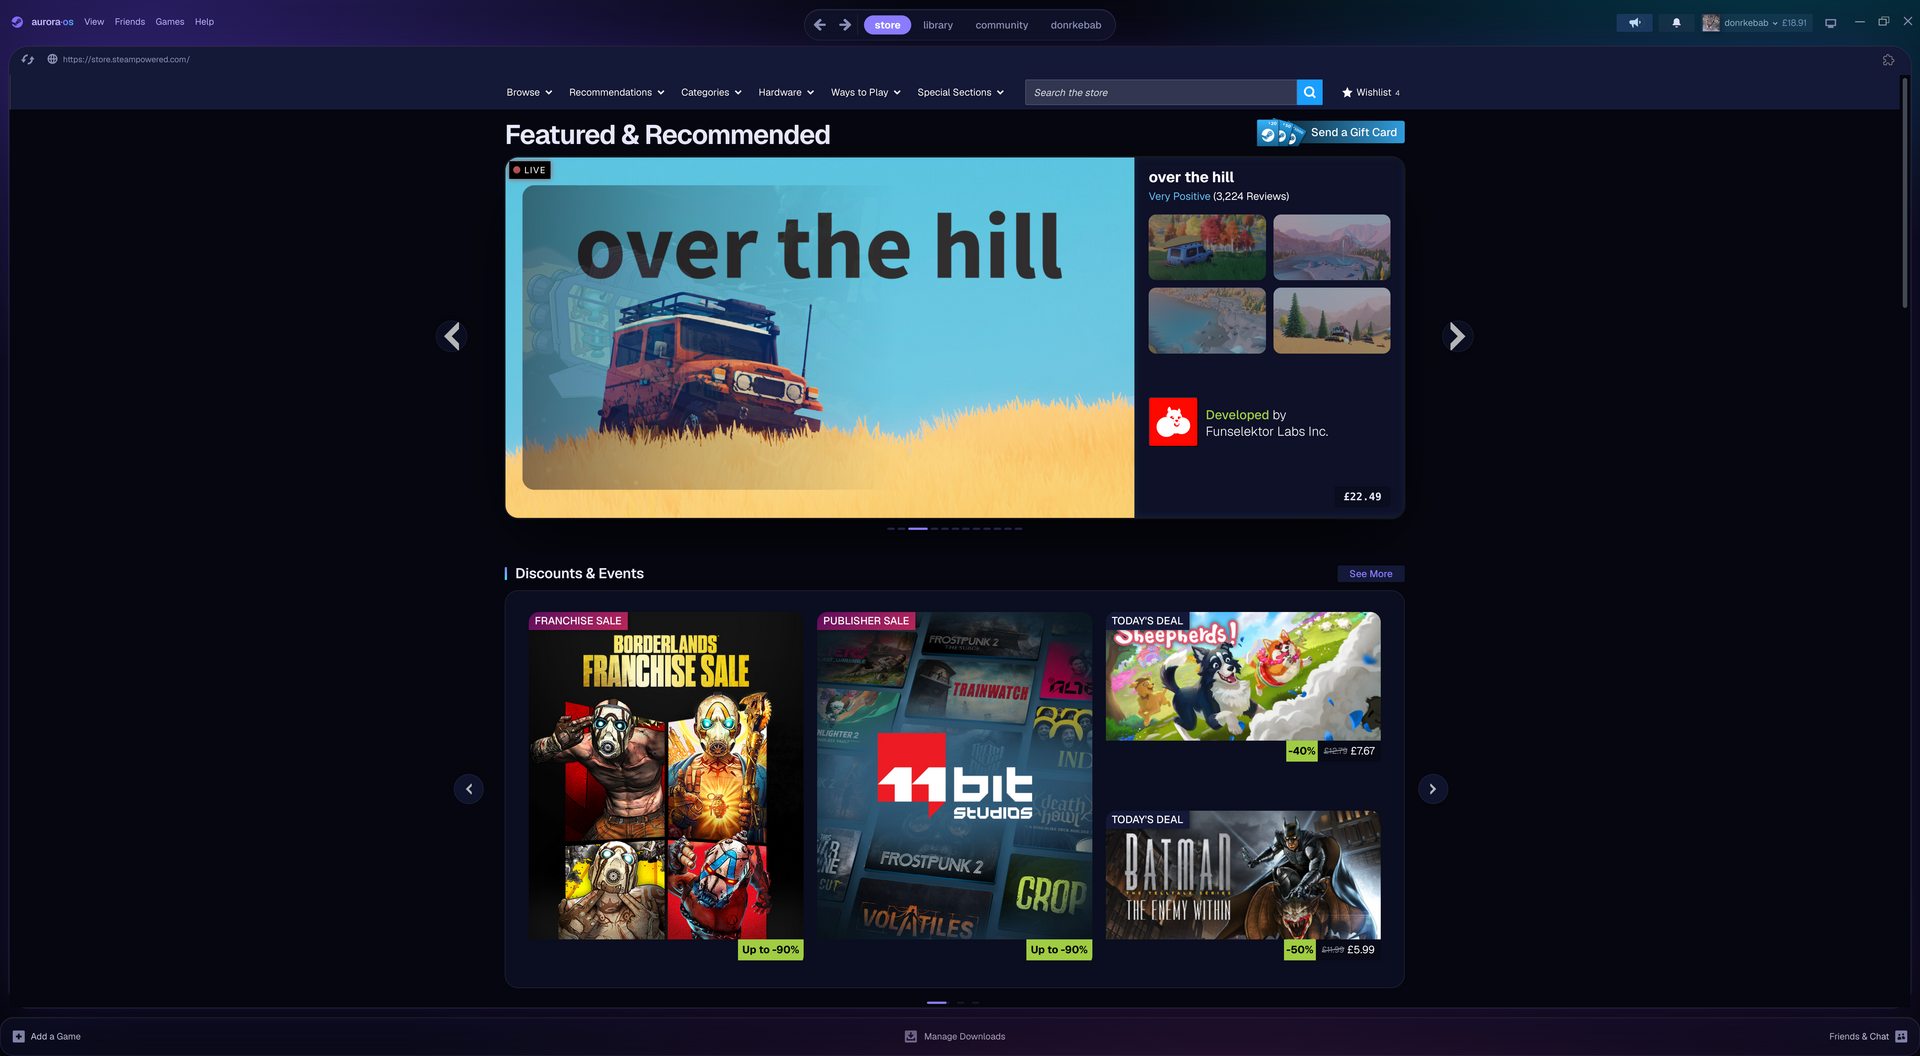
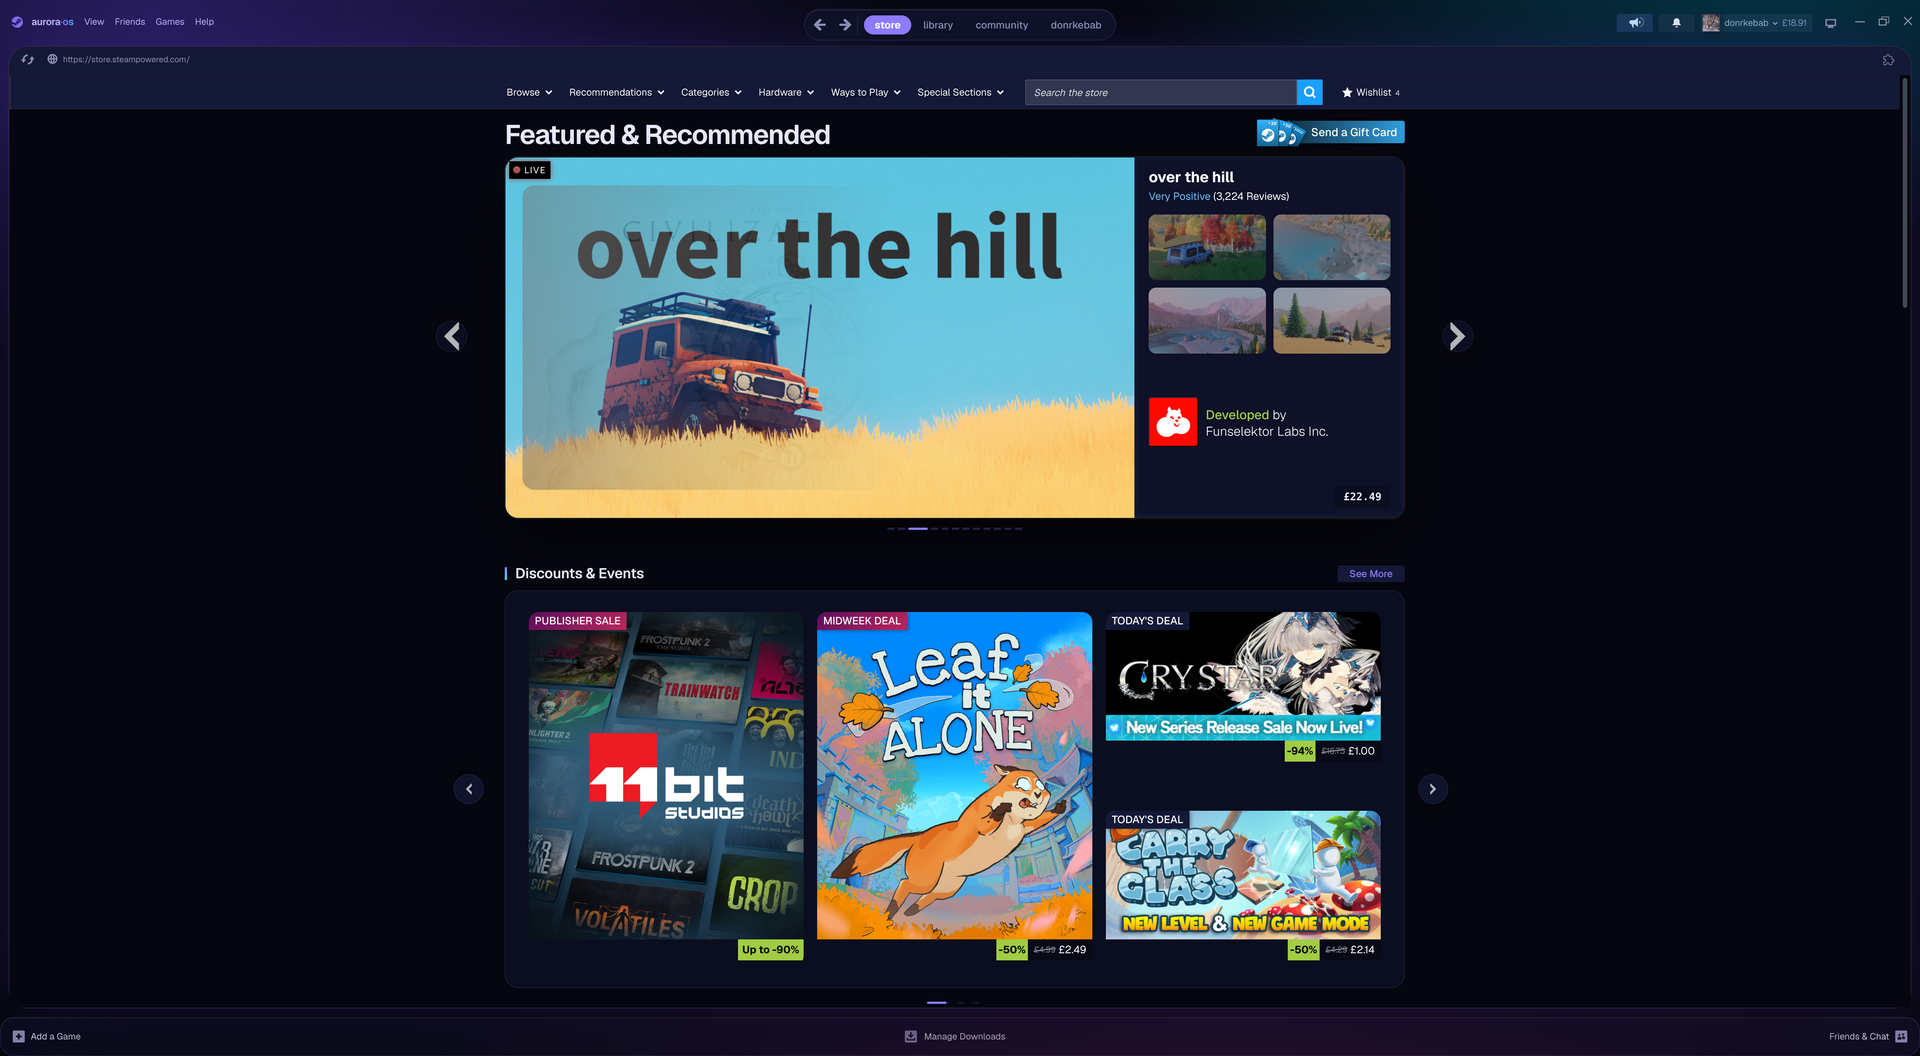
Show game art as-is with no fades, matching play button colours, refreshed screenshots

Changed region(s): [[0.25, 0.5625, 0.7188, 0.9375], [0.25, 0.1562, 0.375, 0.4688], [0.5938, 0.1875, 0.75, 0.3438]]

diff --git a/mx/main.css b/mx/main.css
@@ -824,7 +824,6 @@ body::before{content:"";position:fixed;inset:-20%;pointer-events:none;z-index:0;
 ._3ydigb6zZAjJ0JCDgHwSYA._2AzIX5kl9k6JnxLfR5H4kX{min-width:180px;gap:8px}
 ._39oUCO1OuizVPwcnnv88no ._1Ky59qmywxOUtNcI1cgmkX{align-items:center;padding-left:10px}
 ._3LKQ3S_yqrebeNLF6aeiog{position:relative;border-radius:6px}
-.q-hero-fade{position:absolute;pointer-events:none;z-index:1;background:linear-gradient(transparent 75%,var(--bg-solid) 100%)}
 ._3ydigb6zZAjJ0JCDgHwSYA._2AzIX5kl9k6JnxLfR5H4kX:has(.SVGIcon_Play):hover,._2AzIX5kl9k6JnxLfR5H4kX._2q-gZ3XJzlvSGHSF-GvSmi:hover{filter:brightness(1.12)}
 ._3Z3ohQ8-1NKnCZkbS6fvy ._2D64jIEK7wpUR_NlObDW76{align-items:center;gap:2px;border-radius:var(--nav-r,999px);background:var(--surface-solid);border:1px solid var(--line);box-shadow:inset 0 1px 0 var(--hi,#fff1)}
 ._3Z3ohQ8-1NKnCZkbS6fvy ._2D64jIEK7wpUR_NlObDW76 svg{border-radius:var(--nav-r,999px);transition:background .1s,color .1s}
@@ -880,7 +879,6 @@ body::before{content:"";position:fixed;inset:-20%;pointer-events:none;z-index:0;
 .Rp8QOGJ2DypeDniMnRBhr ._191qxA6UisOKSvaq9gM4W6,.Rp8QOGJ2DypeDniMnRBhr ._191qxA6UisOKSvaq9gM4W6 *{border-radius:99px}
 ._1YbtIWcfkQJOysLXQbwzRf ._1mDAVT4sTzFRwJtlKCw2Ws,._1YbtIWcfkQJOysLXQbwzRf ._1dg8hJMsAYISbeQUxcCJcv{letter-spacing:-.02em}
 ._1YbtIWcfkQJOysLXQbwzRf>*{animation:rise .4s var(--ease) both}
-.NZMJ6g2iVnFsOOp-lDmIP::after{content:"";position:absolute;inset:auto 0 0 0;height:45%;pointer-events:none;background:linear-gradient(transparent,var(--bg-solid))}
 ._1bq4x9pa4-9RLY-dXWUZTp ._20JlDJD9-uoCjNLGp_8mY6 ._2XqX2Zbz7zS2_xq8AksGCu,._1bq4x9pa4-9RLY-dXWUZTp ._20JlDJD9-uoCjNLGp_8mY6 ._26UBk-6weCeV-VClfXNWJZ{font-variant-numeric:tabular-nums}
 ._1bq4x9pa4-9RLY-dXWUZTp ._20JlDJD9-uoCjNLGp_8mY6 ._26UBk-6weCeV-VClfXNWJZ{letter-spacing:.14em;text-transform:uppercase}
 ._1bq4x9pa4-9RLY-dXWUZTp ._3KDkLoCR8OM8xfdQysKn9t{overflow:hidden;border:1px solid var(--line)}
@@ -964,7 +962,7 @@ body :is(input,textarea,:is([contenteditable=""],[contenteditable=true],[content
 .NZMJ6g2iVnFsOOp-lDmIP .HNbe3eZf6H7dtJ042x1vM.HSQWw9HUAP6jtA2OZjS-u,.NZMJ6g2iVnFsOOp-lDmIP .HNbe3eZf6H7dtJ042x1vM._3_IUVzR9tpG_JKEjhwXEAb{display:none!important}
 .NZMJ6g2iVnFsOOp-lDmIP img.q-hero{-webkit-mask-image:none!important;mask-image:none!important;max-width:none!important;max-height:none!important;margin:0!important;transform:none!important;object-fit:fill!important}
 .NZMJ6g2iVnFsOOp-lDmIP ._2DVdg_N1qLNDdnxJqN-RBX,.NZMJ6g2iVnFsOOp-lDmIP ._3NBxSLAZLbbbnul8KfDFjw{z-index:3!important}
-._3ydigb6zZAjJ0JCDgHwSYA._2AzIX5kl9k6JnxLfR5H4kX:has(.SVGIcon_Play),._3ydigb6zZAjJ0JCDgHwSYA._2AzIX5kl9k6JnxLfR5H4kX:has(.SVGIcon_Download),._2AzIX5kl9k6JnxLfR5H4kX._2q-gZ3XJzlvSGHSF-GvSmi{background:var(--acc)!important;background-image:none!important;animation:none!important;box-shadow:none!important;border:0!important}
+._3ydigb6zZAjJ0JCDgHwSYA._2AzIX5kl9k6JnxLfR5H4kX:has(.SVGIcon_Play),._3ydigb6zZAjJ0JCDgHwSYA._2AzIX5kl9k6JnxLfR5H4kX:has(.SVGIcon_Download),._2AzIX5kl9k6JnxLfR5H4kX._2q-gZ3XJzlvSGHSF-GvSmi{background:var(--btn-pri)!important;background-image:none!important;animation:none!important;box-shadow:none!important;border:0!important}
 ._3ydigb6zZAjJ0JCDgHwSYA._2AzIX5kl9k6JnxLfR5H4kX:has(.SVGIcon_Play),._3ydigb6zZAjJ0JCDgHwSYA._2AzIX5kl9k6JnxLfR5H4kX:has(.SVGIcon_Download){border-radius:var(--play-r,10px) 0 0 var(--play-r,10px)!important;color:var(--btn-pri-fg)!important;font-weight:800!important;letter-spacing:.04em!important}
 ._3ydigb6zZAjJ0JCDgHwSYA._2AzIX5kl9k6JnxLfR5H4kX:has(.SVGIcon_Play) *,._3ydigb6zZAjJ0JCDgHwSYA._2AzIX5kl9k6JnxLfR5H4kX:has(.SVGIcon_Download) *{color:var(--btn-pri-fg)!important;fill:var(--btn-pri-fg)!important;filter:none!important;opacity:1!important}
 ._2AzIX5kl9k6JnxLfR5H4kX._2q-gZ3XJzlvSGHSF-GvSmi{border-radius:0 var(--play-r,10px) var(--play-r,10px) 0!important;margin-left:2px!important;color:var(--btn-pri-fg)!important}
@@ -976,6 +974,7 @@ body :is(input,textarea,:is([contenteditable=""],[contenteditable=true],[content
 ._3Z3ohQ8-1NKnCZkbS6fvy ._7AlhCx3XGzBeIrQaCneUD{padding:6px 16px!important;margin:0!important}
 ._3Z3ohQ8-1NKnCZkbS6fvy ._7AlhCx3XGzBeIrQaCneUD._1gqEjB5QsKT_NftD1dEsdZ{background:var(--acc)!important;box-shadow:none!important}
 ._3Z3ohQ8-1NKnCZkbS6fvy ._7AlhCx3XGzBeIrQaCneUD._1gqEjB5QsKT_NftD1dEsdZ ._19axKcqYRuaJ8vdYKYmtTQ{color:var(--btn-pri-fg)!important;font-weight:700!important}
+.NZMJ6g2iVnFsOOp-lDmIP::before,.NZMJ6g2iVnFsOOp-lDmIP::after{display:none!important}
 ._3fLo166MlaNqP8r8tTyRz,._1nTD-C3qRvYp3RSRZSegz3>div,._3vCzSrrXZzZjVJFZNg9SGu{background:var(--surface)!important;border:1px solid var(--line)!important;border-radius:var(--rx)!important;box-shadow:inset 0 1px 0 var(--hi),0 1px 2px #0006,0 8px 20px -14px #000!important}
 ._1nTD-C3qRvYp3RSRZSegz3>div:hover{border-color:var(--line-hi)!important}
 ._23SnllqT_AqZ1C_QHcNQ4Z{font-family:var(--font-display)!important;font-size:var(--sh-size,15px)!important;letter-spacing:var(--sh-ls,-.01em)!important}

diff --git a/mx/main.js b/mx/main.js
@@ -1,3 +1,4 @@
+document.querySelectorAll('.q-hero-fade').forEach(e=>e.remove());
 // themed loading screen for the main window: shown until the library/store has rendered (max 8s)
 (()=>{if(window.__qLoad)return;window.__qLoad=1;
 const o=document.createElement('div');o.id='q-load';o.innerHTML='<div class="q-mark"></div><div class="q-bar"></div>';
@@ -14,8 +15,6 @@ const t0=Date.now(),iv=setInterval(()=>{if(document.querySelector('.Rp8QOGJ2Dype
  const w=vr-vl,ar=img.naturalWidth/img.naturalHeight,iw=w,ih=Math.round(w/ar);
  hero.style.setProperty('height',ih+'px','important');hero.style.setProperty('max-height','none','important');hero.style.setProperty('min-height','0','important');
  const h=ih;
- img.classList.add('q-hero');Object.assign(img.style,{position:'absolute',left:(vl-pr.left)+'px',top:'0px',width:iw+'px',height:ih+'px'});
- let f=op.querySelector(':scope>.q-hero-fade');if(!f){f=document.createElement('div');f.className='q-hero-fade';op.appendChild(f)}
- Object.assign(f.style,{left:img.style.left,top:img.style.top,width:iw+'px',height:ih+'px'})};
+ img.classList.add('q-hero');Object.assign(img.style,{position:'absolute',left:(vl-pr.left)+'px',top:'0px',width:iw+'px',height:ih+'px'});};
  const q=()=>{if(!raf)raf=requestAnimationFrame(place)};
  addEventListener('resize',q);new MutationObserver(q).observe(document.documentElement,{childList:true,subtree:true});document.addEventListener('load',q,true)})();
